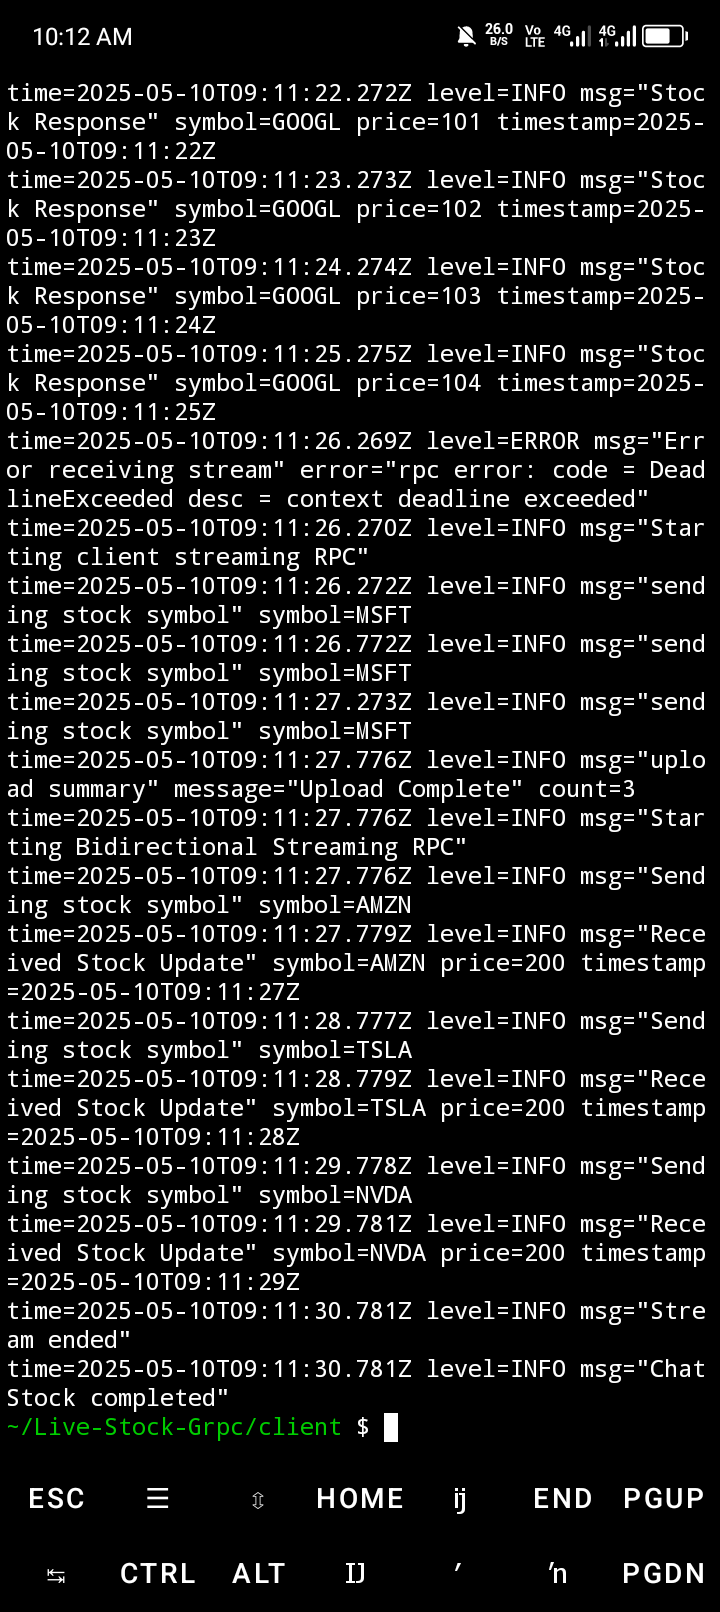
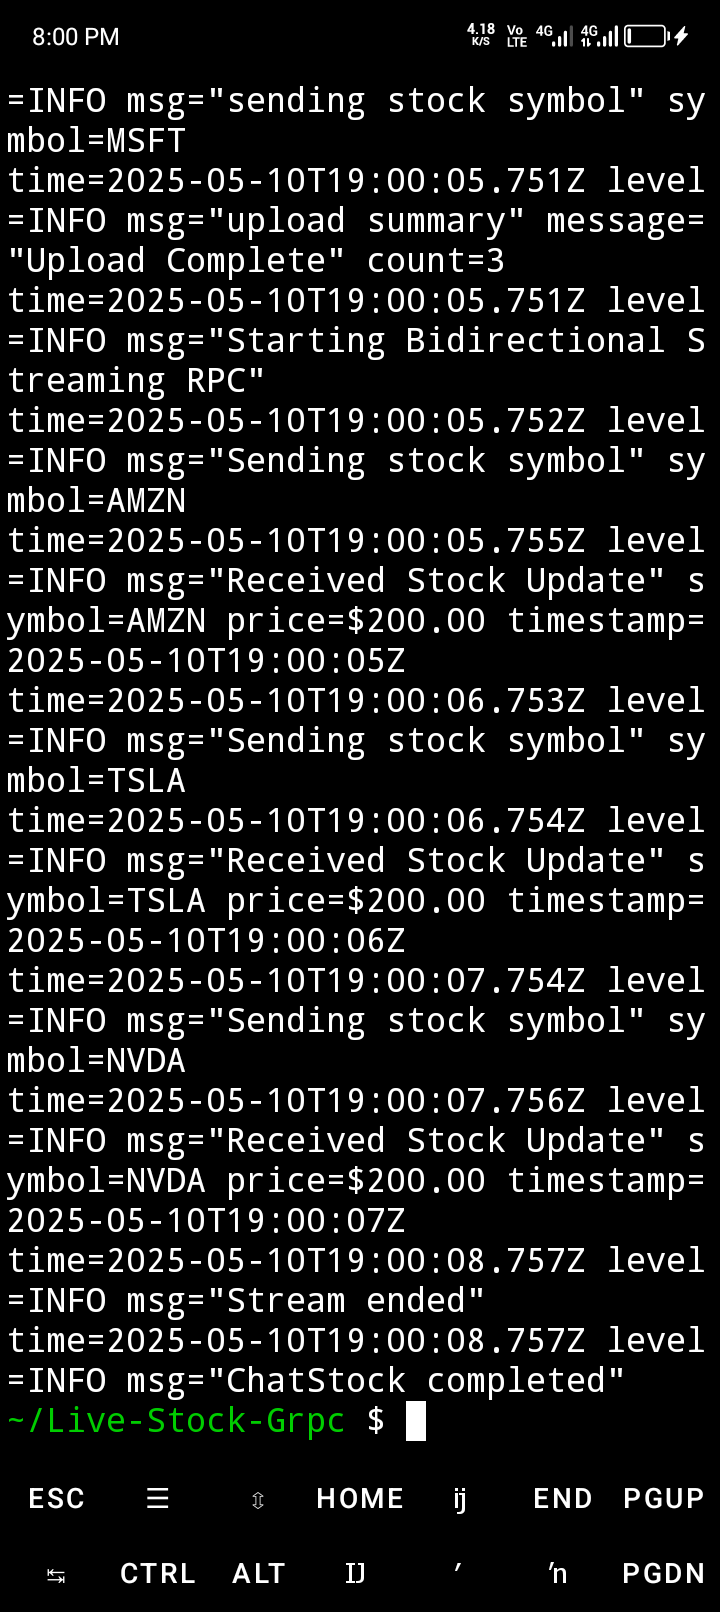
leveraged alpha vantagebapi tk get real time stocks

Changed region(s): [[0.0, 0.0, 0.9778, 0.8995]]

diff --git a/server/servers/alpha_vantage.go b/server/servers/alpha_vantage.go
@@ -1,0 +1,60 @@
+package servers
+
+import (
+  "fmt"
+  "os"
+  "net/http"
+  "encoding/json"
+  "io"
+  "log/slog"
+  "github.com/joho/godotenv"
+  )
+ 
+type AlphaVantageResponse struct {
+  GlobalQuote struct{
+    Symbol string `json:"01. symbol"`
+    Price string `json:"05. price"`
+  } `json:"Global Quote"`
+}
+
+var (
+  apiKey string
+  baseUrl = "https://alphavantage.co/query"
+  )
+  
+
+func init() {
+    if err := godotenv.Load(); err != nil { 
+      slog.Error("Error loading .env file", "error", err)
+    }
+    apiKey = os.Getenv("ALPHA_VANTAGE_API_KEY") 
+}
+
+func GetRealTimePrice(symbol string) (float64, error){
+ if apiKey == "" {
+		return 0, fmt.Errorf("Alpha Vantage API key not configured")
+	}
+	
+  url := fmt.Sprintf("%s?function=GLOBAL_QUOTE&symbol=%s&apikey=%s", baseUrl, symbol, apiKey)
+  
+  resp, err := http.Get(url)
+  if err != nil {
+    return 0, fmt.Errorf("Api Request Failed: %v", err)
+  }
+  defer resp.Body.Close()
+  
+  body, _ := io.ReadAll(resp.Body)
+  var result AlphaVantageResponse
+  
+  if err := json.Unmarshal(body, &result); err != nil {
+    return 0, fmt.Errorf("Failed to pass response", "%v", err)
+  }
+  
+  if result.GlobalQuote.Price == "" {
+    fmt.Errorf("No price data for: %v", symbol)
+  }
+  // to convert the price string to float
+  var price float64 
+  fmt.Sscanf(result.GlobalQuote.Price, "%f", &price)
+  return price, nil
+}

diff --git a/server/servers/unary.go b/server/servers/unary.go
@@ -7,11 +7,16 @@ import (
   )
   
 func (s *StockServer) GetStock(ctx context.Context, req *stockpb.StockRequest) (*stockpb.StockResponse, error) {
-  s.Logger.Info("Received GetStock request from symbol: %s", req.GetSymbol())
-  
+    s.Logger.Info("Fetching REAL-TIME price", "symbol", req.GetSymbol())
+    
+    price, err := GetRealTimePrice(req.GetSymbol()) 
+    if err != nil {
+        s.Logger.Error("Failed to get real-time price", "error", err)
+        return nil, err
+    }
   return &stockpb.StockResponse{
     Symbol: req.GetSymbol(),
-    Price: 100.0,
+    Price: price,
     Timestamp: time.Now().Format(time.RFC3339),
   }, nil
 }

diff --git a/server/servers/server_stream.go b/server/servers/server_stream.go
@@ -9,8 +9,13 @@ func(s *StockServer) WatchStock(req *stockpb.StockRequest, stream stockpb.StockS
   s.Logger.Info("Streaming Stock updates for: %s", req.GetSymbol())
   
   for i := 0; i < 10; i++ {
-    price := 100.0 + float64(i)
-    
+    price, err := GetRealTimePrice(req.GetSymbol()) 
+     if err != nil {
+      s.Logger.Error("Failed to get real-time price", 
+        "symbol", req.GetSymbol(), 
+        "error", err)
+        return err 
+        }
     resp := &stockpb.StockResponse {
       Symbol: req.GetSymbol(),
       Price: price,

diff --git a/client/clients/bi_stream.go b/client/clients/bi_stream.go
@@ -6,6 +6,7 @@ import (
 	"log/slog"
 	"sync"
 	"time"
+	"fmt"
 	"github.com/samueltuoyo15/Live-Stock-Grpc/proto/generated/stockpb"
 )
 
@@ -53,7 +54,7 @@ func (sc *StockClient) ChatStock(stocks []*stockpb.StockRequest) {
 			}
 			slog.Info("Received Stock Update", 
 				"symbol", res.GetSymbol(),
-				"price", res.GetPrice(),
+				"price", fmt.Sprintf("$%.2f", res.GetPrice()),
 				"timestamp", res.GetTimestamp())
 		}
 	}()

diff --git a/client/clients/server_stream.go b/client/clients/server_stream.go
@@ -5,6 +5,7 @@ import (
 	"io"
 	"log/slog"
 	"time"
+	"fmt"
 	"github.com/samueltuoyo15/Live-Stock-Grpc/proto/generated/stockpb"
 )
 
@@ -34,7 +35,7 @@ func(sc *StockClient) WatchStock(symbol string){
     }
       slog.Info("Stock Response",
        "symbol", res.GetSymbol(),
-       "price", res.GetPrice(),
+       "price", fmt.Sprintf("$%.2f", res.GetPrice()),
        "timestamp", res.GetTimestamp())
   }
 }

diff --git a/client/clients/unary.go b/client/clients/unary.go
@@ -4,6 +4,7 @@ import (
 	"context"
 	"log/slog"
 	"time"
+	"fmt"
 	"github.com/samueltuoyo15/Live-Stock-Grpc/proto/generated/stockpb"
 )
 
@@ -23,6 +24,6 @@ func(sc *StockClient) GetStock(symbol string){
   
   slog.Info("Stock Response",
   "symbol", res.GetSymbol(),
-  "price", res.GetPrice(),
+  "price", fmt.Sprintf("$%.2f", res.GetPrice()),
   "timestamp", res.GetTimestamp())
 }

diff --git a/README.md b/README.md
@@ -1,8 +1,6 @@
-# ⚡ Live Stock Tracker (gRPC) ⚡
+# 🚀 Live Stock GRPC: Real-Time Stock Data Streaming 📈
 
-Real-time stock data streaming via gRPC! 📈 Get instant updates, historical data, and interactive stock chats. 💸
-
-## 🖥 Demo
+Get real-time stock prices and updates using gRPC! This project demonstrates how to build a high-performance, real-time stock data streaming service using Go and gRPC.
 
 ### Server Terminal (Running on Port 8080)
 ![Server Logs](./public/server.png)
@@ -10,104 +8,116 @@ Real-time stock data streaming via gRPC! 📈 Get instant updates, historical da
 ### Client Terminal (Fetching Stock Data)
 ![Client Logs](./public/client.png)
 
-## ✨ Features
+## ⚙ Installation
 
-- ⚡ **Unary RPC**: Fetch a single stock price.
-- 📡 **Server Streaming**: Watch live stock updates.
-- 📤 **Client Streaming**: Upload historical data.
-- 💬 **Bi-directional Streaming**: Chat about stocks in real-time.
+Follow these steps to set up the project locally:
 
-## 🛠 Installation
+- 👯 **Clone the Repository**:
+  ```bash
+  git clone https://github.com/samueltuoyo15/Live-Stock-Grpc.git
+  cd Live-Stock-Grpc
+  ```
 
-Get started by cloning the repository and setting up the environment.
+- 🛠 **Install Dependencies**:
+  ```bash
+  go mod download
+  ```
 
-- ⬇ **Clone the Repository**:
+- ⚙ **Generate gRPC Stubs**:
+  ```bash
+  make proto
+  ```
 
-```bash
-git clone https://github.com/samueltuoyo15/Live-Stock-Grpc.git
-cd Live-Stock-Grpc
-```
+- 🚀 **Run the Server**:
+  ```bash
+  go run server/main.go
+  ```
 
-- ⚙ **Install Dependencies**:
+- 🏃 **Run the Client**:
+  ```bash
+  go run client/main.go
+  ```
 
-Make sure you have Go installed. Then, download the necessary modules:
+## 💻 Usage
 
-```bash
-go mod download
-```
-
-- 🔨 **Compile Proto Files**:
-
-Generate Go files from the protobuf definitions:
-
-```bash
-make proto
-```
-
-## 🚀 Usage
-
-### Run the Server
-
-```bash
-cd server
-go run main.go
-```
-
-### Run the Client
-
-```bash
-cd client
-go run main.go
-```
-
-<details>
-<summary>Detailed Usage Instructions</summary>
+### Running the Application
 
 1.  **Start the gRPC Server**:
 
-    *   Navigate to the `server` directory.
-    *   Run the `main.go` file to start the server. This will listen on port `8080`.
-
     ```bash
-    cd server
-    go run main.go
+    go run server/main.go
     ```
 
-2.  **Run the gRPC Client**:
+    The server listens on port `8080`.
 
-    *   Open a new terminal and navigate to the `client` directory.
-    *   Run the `main.go` file to start the client. The client will connect to the server and demonstrate the various gRPC methods.
+2.  **Execute the gRPC Client**:
 
     ```bash
-    cd client
-    go run main.go
+    go run client/main.go
     ```
 
-3.  **Observe the Output**:
+    The client will demonstrate unary, server streaming, client streaming, and bidirectional streaming RPCs.
 
-    *   The server will log incoming requests and stream stock updates.
-    *   The client will display the responses from the server, showcasing unary, server streaming, client streaming, and bi-directional streaming RPCs.
-</details>
+### Example Usage
 
-## 🖥 Technologies Used
+```go
+// Example: Unary RPC
+stockClient.GetStock("AAPL")
 
-| Technology   | Link                                                                       |
-| :----------- | :------------------------------------------------------------------------- |
-| Go           | [https://go.dev/](https://go.dev/)                                          |
-| gRPC         | [https://grpc.io/](https://grpc.io/)                                        |
-| Protocol Buffers | [https://protobuf.dev/](https://protobuf.dev/)                                  |
+// Example: Server Streaming RPC
+stockClient.WatchStock("GOOGL")
+
+// Example: Client Streaming RPC
+stockClient.UploadStockHistory([]*stockpb.StockRequest{
+  { Symbol: "MSFT" },
+  { Symbol: "MSFT" },
+  { Symbol: "MSFT" },
+})
+
+// Example: Bidirectional Streaming RPC
+stockClient.ChatStock([]*stockpb.StockRequest{
+  { Symbol: "AMZN" },
+  { Symbol: "TSLA" },
+  { Symbol: "NVDA" },
+})
+```
+
+## ✨ Features
+
+- ⚡ **Real-Time Data**: Fetches stock prices in real-time.
+- 📡 **gRPC Streaming**: Implements unary, server streaming, client streaming, and bidirectional streaming gRPC methods.
+- 🧰 **Modular Design**: Well-structured code for easy maintenance and extension.
+- 🪵 **Logging**: Utilizes `slog` for structured logging and debugging.
+- 🔑 **API Integration**: Integrates with Alpha Vantage API for stock data.
+
+## 🛠 Technologies Used
+
+| Technology       | Description                                                              | Link                                                                                       |
+| :--------------- | :----------------------------------------------------------------------- | :----------------------------------------------------------------------------------------- |
+| **Go**           | Programming language                                                     | [https://golang.org/](https://golang.org/)                                                |
+| **gRPC**         | High-performance, open-source universal RPC framework                    | [https://grpc.io/](https://grpc.io/)                                                      |
+| **Protocol Buffers** | Google's language-neutral, platform-neutral, extensible mechanism   | [https://developers.google.com/protocol-buffers](https://developers.google.com/protocol-buffers) |
+| **Alpha Vantage API** | Real-time stock data                                                 | [https://www.alphavantage.co/](https://www.alphavantage.co/)                                |
+| **godotenv**       | Loads environment variables from `.env` file                         | [https://github.com/joho/godotenv](https://github.com/joho/godotenv)                       |
+| **slog**         | Structured logging package                                               | [https://pkg.go.dev/log/slog](https://pkg.go.dev/log/slog)                                  |
 
 ## 🤝 Contributing
 
-Contributions are welcome! Here's how you can help:
+We welcome contributions! Here's how you can help:
 
-- 🐛 **Report Bugs**: Submit detailed bug reports.
-- 💡 **Suggest Features**: Propose new features and improvements.
-- ✍ **Contribute Code**: Submit pull requests with well-documented code.
+- 🐛 **Report Bugs**: Submit detailed bug reports to help improve the project.
+- 💡 **Suggest Features**: Propose new features and enhancements.
+- 🛠 **Submit Pull Requests**: Contribute code changes, fixes, and improvements.
+
+Please follow these guidelines when contributing:
+
+- 📝 Use clear and descriptive commit messages.
+- 🧪 Write tests for new features and bug fixes.
+- 📖 Follow the existing code style.
 
 ## 📜 License
 
-This project is under the [MIT License](LICENSE).
+This project is licensed under the [MIT License](LICENSE).
 
 ## 🧑💻 Author Info
 
@@ -115,8 +125,10 @@ This project is under the [MIT License](LICENSE).
   - Twitter: [https://x.com/TuoyoS26091]
   - LinkedIn: [https://www.linkedin.com/in/samuel-tuoyo-8568b62b6]
 
-[![Go](https://img.shields.io/badge/go-%2300ADD8.svg?style=for-the-badge&logo=go&logoColor=white)](https://go.dev/)
-[![gRPC](https://img.shields.io/badge/gRPC-333333?style=for-the-badge&logo=grpc&logoColor=CB6841)](https://grpc.io/)
-[![License: MIT](https://img.shields.io/badge/License-MIT-yellow.svg)](https://opensource.org/licenses/MIT)
+## Badges
+
+[![Go](https://img.shields.io/badge/Go-1.24-blue)](https://golang.org)
+[![gRPC](https://img.shields.io/badge/gRPC-v1.72.0-brightgreen)](https://grpc.io)
+[![License: MIT](https://img.shields.io/badge/License-MIT-yellow.svg)](LICENSE)
 
 [![Readme was generated by Dokugen](https://img.shields.io/badge/Readme%20was%20generated%20by-Dokugen-brightgreen)](https://www.npmjs.com/package/dokugen)
